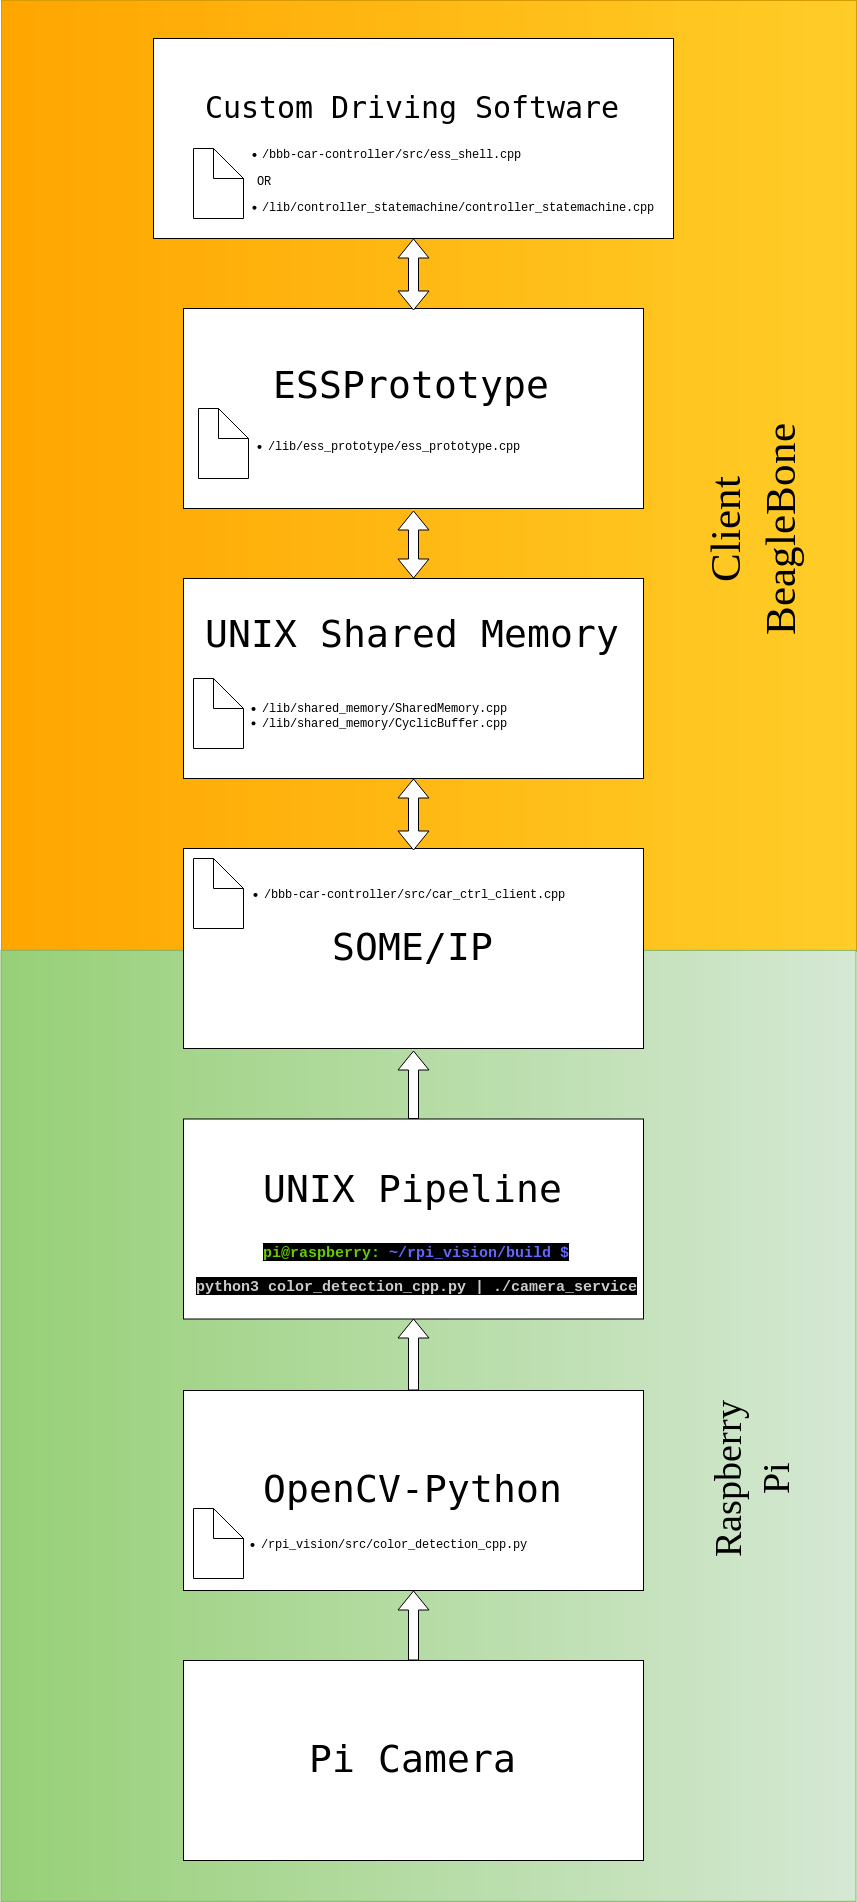
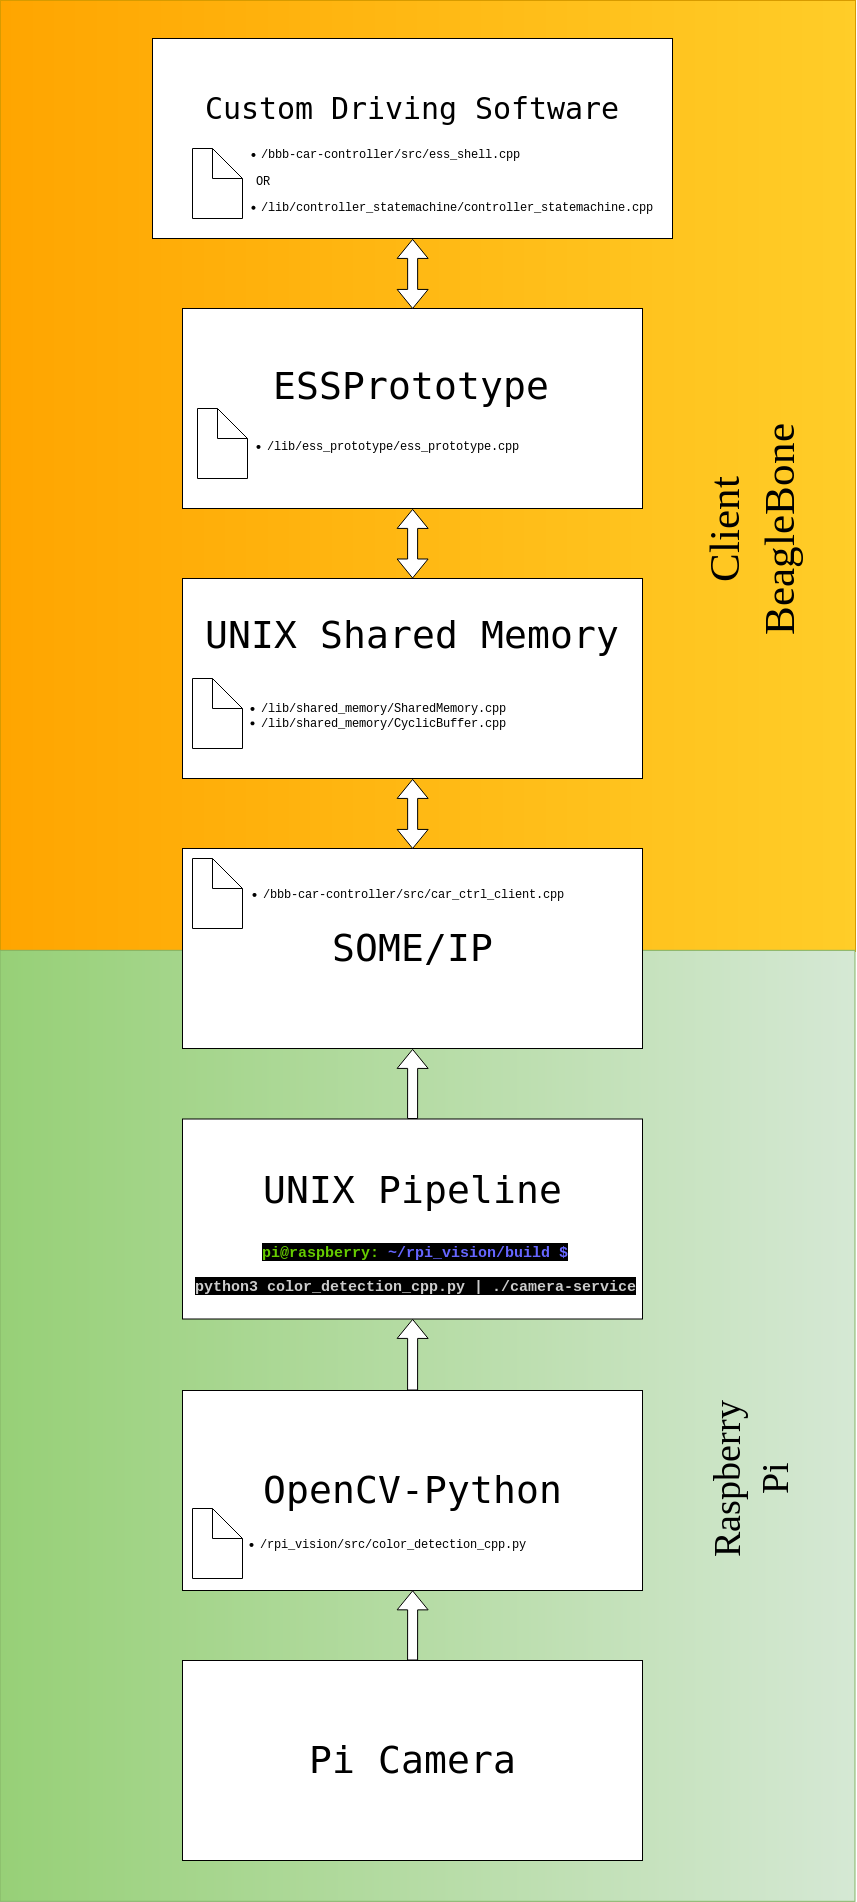
Updated READMEs with build and start instructions

diff --git a/bbb-motor-speed/README.md b/bbb-motor-speed/README.md
@@ -15,7 +15,6 @@ into the file replacing "/path/to/" accordingly.
 # Pin mapping
 ![Pin mapping](https://raw.githubusercontent.com/fhyy/MF2063-ESS-NW-CAR/master/resources/diagrams/motor-speed-node.svg?sanitize=true)
 
-
 # IP-Address
 
 192.168.0.3
@@ -35,6 +34,38 @@ for a smooth, scripted setup should be copied neatly onto the respective BegleBo
 | interfaces    | /etc/network/interfaces
 | resolv.conf   | /etc/resolv.conf (run "sudo chattr +i /etc/resolv.conf" to prevent other programs from editing this file)
 | debian        | /etc/sudoers.d/debian
+
+# Building the motor/speed service
+
+To build this program on the target node stand in the same folder as this README and type:
+```bash
+mkdir build
+cd build
+cmake ..
+make
+```
+
+This will build all executables needed to publish sensor data and take actuator requests through vsomeip.
+
+# Starting the motor/speed service
+To start the program, stand in the build folder and type:
+```bash
+sudo ./motor-speed-service & sudo ./motor_speed
+```
+
+This will run the vsomeip service and the SPI master program, respectively.
+Additionally the following flags can be passed to "motor-speed-service":
+| Flag           | Argument        |Description
+|----------------|-----------------|-----------------------------------------------------------------------------------------------
+| --skip-go      | [EMPTY]         | Speedometer events will always be published, even if client has not given any GO-signal
+| --sleep        | A positive int  | Time spent sleeping (in millisec) between publishing speedometer events
+
+**Example**
+To run the software with 100 milliseconds of sleep between speed events, and
+make it ignore the availability of the go-signal, stand in the build folder and type:
+```bash
+sudo ./motor-speed-service --skip-go --sleep 100 & sudo ./motor_speed
+```
 
 # Software Architecture Overview
 **Architecture Overview**  

diff --git a/bbb-car-controller/README.md b/bbb-car-controller/README.md
@@ -33,6 +33,44 @@ for a smooth, scripted setup should be copied neatly onto the respective BegleBo
 | resolv.conf   | /etc/resolv.conf (run "sudo chattr +i /etc/resolv.conf" to prevent other programs from editing this file)
 | debian        | /etc/sudoers.d/debian
 
+# Building the car controller client
+
+To build this program on the target node stand in the same folder as this README and type:
+```bash
+mkdir build
+cd build
+cmake ..
+make
+```
+
+This will build all executables needed to control the system over vsomeip.
+
+# Starting the car controller client
+To start the program, stand in the build folder and type:
+```bash
+./car-ctrl-client & ./main
+```
+OR
+```bash
+./car-ctrl-client & ./ess_shell
+```
+
+This will run the controller statemachine or the ESS SHELL, respectively.
+Additionally the following flags can be passed to "car-ctrl-client":
+| Flag           | Argument        |Description
+|----------------|-----------------|-----------------------------------------------------------------------------------------------
+| --skip-go      | [EMPTY]         | Makes all threads unpausable, essentially means that availability of services will be ignored
+| --motor-sleep  | A positive int  | Time spent sleeping (in millisec) between sending motor requests
+| --steer-sleep  | A positive int  | Time spent sleeping (in millisec) between sending steering requests
+| --setmin-sleep | A positive int  | Time spent sleeping (in millisec) between sending setmin requests
+
+**Example**
+To run the software with 300 milliseconds of sleep between setmin requests, and
+make it ignore the availability of the services, stand in the build folder and type:
+```bash
+./car-ctrl-client --skip-go --setmin-sleep 300 & ./main
+```
+
 # Software Architecture Overview
 **Architecture Overview**  
 ![Architecture Overview](../figures/software_architecture_bbb_files.png)

diff --git a/bbb-distance-steering/README.md b/bbb-distance-steering/README.md
@@ -36,6 +36,38 @@ for a smooth, scripted setup should be copied neatly onto the respective BegleBo
 | resolv.conf   | /etc/resolv.conf (run "sudo chattr +i /etc/resolv.conf" to prevent other programs from editing this file)
 | debian        | /etc/sudoers.d/debian
 
+# Building the distance/steering service
+
+To build this program on the target node stand in the same folder as this README and type:
+```bash
+mkdir build
+cd build
+cmake ..
+make
+```
+
+This will build all executables needed to publish sensor data and take actuator requests through vsomeip.
+
+# Starting the distance/steering service
+To start the program, stand in the build folder and type:
+```bash
+sudo ./dist-steer-service & sudo ./dist_steer
+```
+
+This will run the vsomeip service and the SPI master program, respectively.
+Additionally the following flags can be passed to "dist-steer-service":
+| Flag           | Argument        |Description
+|----------------|-----------------|-----------------------------------------------------------------------------------------------
+| --skip-go      | [EMPTY]         | Distance events will always be published, even if client has not given any GO-signal
+| --sleep        | A positive int  | Time spent sleeping (in millisec) between publishing distance events
+
+**Example**
+To run the software with 100 milliseconds of sleep between distance events, and
+make it ignore the availability of the go-signal, stand in the build folder and type:
+```bash
+sudo ./dist_steer_service --skip-go --sleep 100 & sudo ./dist_steer
+```
+
 # Software Architecture Overview
 **Architecture Overview**  
 ![Architecture Overview](../figures/software_architecture_bbb_files.png)

diff --git a/rpi-vision/README.md b/rpi-vision/README.md
@@ -14,6 +14,38 @@ this script to work.
 The folder called "object_detection" contains the object detection code, which can run on laptop and Raspberry Pi. To run color
 detection on Raspberry Pi, execute python3 color_detection_cpp.py
 
+# Building the camera service
+
+To build this program on the target node stand in the same folder as this README and type:
+```bash
+mkdir build
+cd build
+cmake ..
+make
+```
+
+This will build all executables needed to publish sensor data and take actuator requests through vsomeip.
+
+# Starting the camera service
+To start the program, stand in the build folder and type:
+```bash
+python3 color_detection_cpp.py | ./camera-service
+```
+
+This will run the vsomeip service and the SPI master program, respectively.
+Additionally the following flags can be passed to "motor-speed-service":
+| Flag           | Argument        |Description
+|----------------|-----------------|-----------------------------------------------------------------------------------------------
+| --skip-go      | [EMPTY]         | Camera events will always be published, even if client has not given any GO-signal
+| --sleep        | A positive int  | Time spent sleeping (in millisec) between publishing camera events
+
+**Example**
+To run the software with 100 milliseconds of sleep between camera events, and
+make it ignore the availability of the go-signal, stand in the build folder and type:
+```bash
+python3 color_detection_cpp.py | ./camera-service --skip-go --sleep 100
+```
+
 # Software Architecture Overview
 **Architecture Overview**  
 ![Architecture Overview](../figures/software_architecture_rpi_files.png)
